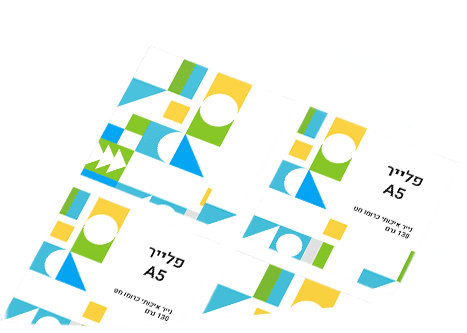
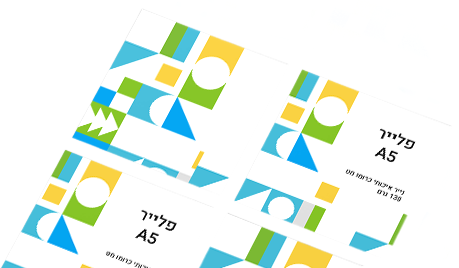
Updated assets

diff --git a/src/components/Layout/Header/Profile.js b/src/components/Layout/Header/Profile.js
@@ -69,6 +69,8 @@ class Profile extends Component {
     const loginPage = `/logout.aspx?tempUserId=${tempUserId}&SecurityToken=${securityToken}&StoreGuid=${storeID}&storeid=${storeFriendlyID}&NgLanguageCode=${languageCode}&forceLogin=true&ShowRibbon=false&SignIn=true`
     const IsAnonymous = currentUser.IsAnonymous
 
+    const userIcon = require(`$assets/images/user-icon.png`)
+
     return (
       <Dropdown
         isOpen={this.state.isDropdownOpen}
@@ -79,15 +81,8 @@ class Profile extends Component {
           tag='div'
           data-toggle='dropdown'
         >
-          {/*<i className="fas fa-user fa-lg"></i>*/}
           <div className="profile-icon-container">
-            <Icon name="user.svg" width="20px" height="20px" className="profile-icon" />
-            {
-              pendingApprovalOrderCount > 0 &&
-              <div className="notification-icon">
-                <Icon name="profile-notification.svg" width="20px" height="20px" className="profile-icon" />
-              </div>
-            }
+            {userIcon && <img className="user-icon" src={userIcon} alt="user-icon" />}
           </div>
         </DropdownToggle>
         <DropdownMenu right>

diff --git a/src/components/Layout/Header/Cart.js b/src/components/Layout/Header/Cart.js
@@ -12,8 +12,7 @@ const Cart = ({ connectCartUrl = '' }) => {
 
   const cartComponent = () => {
     return <div className="cart-icon-container">
-      {cartIcon && <img className="cart-icon" src={cartIcon} alt="logo" />}
-      {/* <Icon name="cart.svg" width="23px" height="21px" className="cart-icon" /> */}
+      {cartIcon && <img className="cart-icon" src={cartIcon} alt="cart-icon" />}
     </div>
   }
 

diff --git a/src/components/PromotionMain.scss b/src/components/PromotionMain.scss
@@ -34,7 +34,7 @@
 }
 .main_page_image {
   position: absolute;
-  top: 70px;
+  top: 100px;
   left: 50px
 }
 
